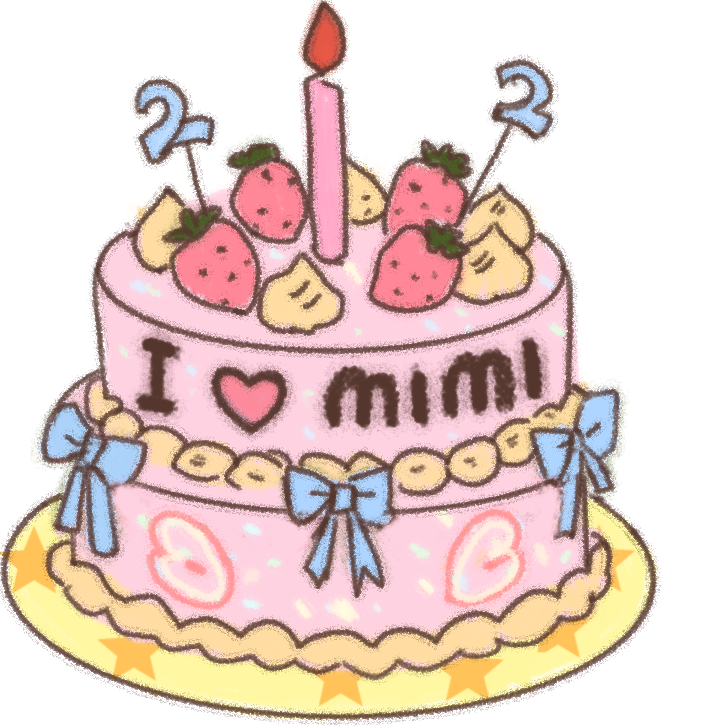
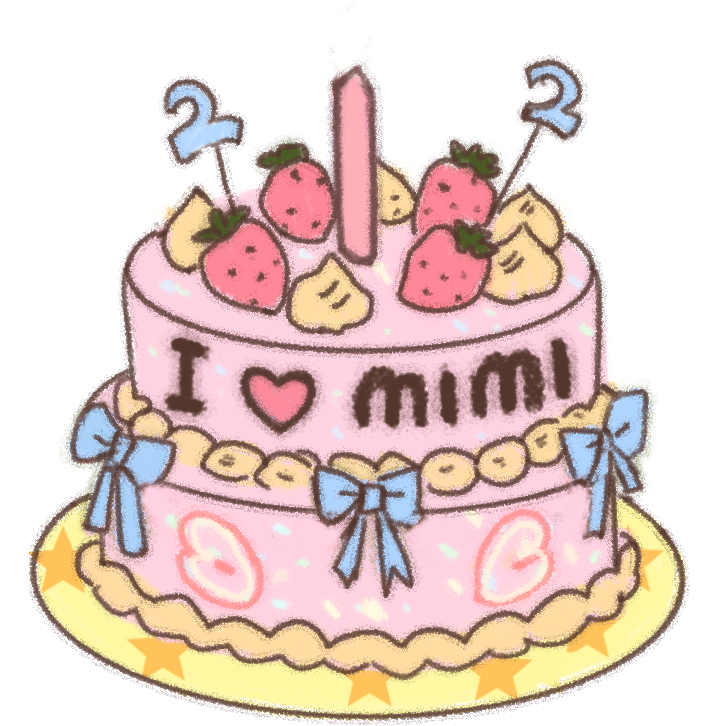
finish cake birthday interaction

diff --git a/room.html b/room.html
@@ -7,6 +7,11 @@
     <title>Mimi's 22 Chapter — Room</title>
     <link rel="stylesheet" href="style.css" />
     <style>
+      :root {
+        --flame-top: 1%;
+        --flame-left: 46%;
+      }
+
       .room-screen {
         isolation: isolate;
       }
@@ -97,6 +102,166 @@
       .notebook-overlay.is-open {
         opacity: 1;
         visibility: visible;
+      }
+
+      .cake-overlay {
+        position: fixed;
+        top: 0;
+        right: 0;
+        bottom: 0;
+        left: 0;
+        z-index: 32;
+        display: grid;
+        place-items: center;
+        padding: 1rem;
+        overflow: hidden;
+        background: rgb(105 47 76 / 46%);
+        opacity: 0;
+        visibility: hidden;
+        transition: opacity 240ms ease, visibility 240ms ease;
+      }
+
+      .cake-overlay.is-open {
+        opacity: 1;
+        visibility: visible;
+      }
+
+      .cake-celebration {
+        position: relative;
+        justify-self: center;
+        align-self: center;
+        width: min(90vw, 34rem);
+        margin: 0;
+        padding: clamp(1.5rem, 4vw, 2.7rem);
+        text-align: center;
+        background: #fff0f6;
+        border: 2px dashed #e79ab9;
+        border-radius: 24px 30px 22px 28px;
+        box-shadow: 8px 10px 0 rgb(120 46 80 / 18%);
+        transform-origin: center;
+        transform: scale(0.94) rotate(0.8deg);
+        transition: transform 280ms cubic-bezier(.2, .85, .25, 1.12);
+      }
+
+      .cake-overlay.is-open .cake-celebration { transform: scale(1) rotate(0.8deg); }
+
+      .cake-title {
+        margin: 0;
+        color: #ab4c77;
+        font: 800 clamp(1.8rem, 5vw, 3rem)/1 "Marker Felt", "Bradley Hand", "Comic Sans MS", cursive;
+      }
+
+      .cake-subtitle {
+        margin: 0.45rem 0 1rem;
+        color: #a67087;
+        font: italic 0.95rem/1.4 Georgia, serif;
+      }
+
+      .cake-close {
+        position: absolute;
+        top: 0.8rem;
+        right: 0.9rem;
+        width: 2.2rem;
+        height: 2.2rem;
+        color: #ba638b;
+        font: 700 1.25rem/1 sans-serif;
+        cursor: pointer;
+        background: #fff9fc;
+        border: 2px solid #e6a6c1;
+        border-radius: 50%;
+      }
+
+      .cake-stage {
+        position: relative;
+        width: min(72vw, 20rem);
+        margin: 0 auto;
+        cursor: pointer;
+      }
+
+      .cake-stage > img { display: block; width: 100%; height: auto; }
+
+      .cake-flame {
+        position: absolute;
+        top: var(--flame-top);
+        left: var(--flame-left);
+        width: 7%;
+        aspect-ratio: 0.62;
+        background: linear-gradient(#fff7a6, #ff9b62 65%, #f3708d);
+        border-radius: 60% 60% 65% 65%;
+        box-shadow: 0 0 15px #ffd77b;
+        transform-origin: 50% 100%;
+        animation: flame-flicker 700ms ease-in-out infinite alternate;
+      }
+
+      .cake-candle-mask {
+        position: absolute;
+        top: calc(var(--flame-top) - 1%);
+        left: calc(var(--flame-left) - 1.5%);
+        width: 10%;
+        height: 10%;
+        background: #fff0f6;
+        border-radius: 50% 50% 35% 35%;
+        opacity: 0;
+      }
+
+      .cake-smoke {
+        position: absolute;
+        top: var(--flame-top);
+        left: var(--flame-left);
+        width: 5%;
+        aspect-ratio: 1;
+        background: rgb(205 196 207 / 72%);
+        border-radius: 50%;
+        opacity: 0;
+      }
+
+      .cake-star {
+        position: absolute;
+        top: 20%;
+        left: 50%;
+        color: #f2b956;
+        font-size: clamp(1rem, 4vw, 1.8rem);
+        opacity: 0;
+        pointer-events: none;
+      }
+
+      .cake-stage.is-blown .cake-flame { opacity: 0; animation: none; }
+      .cake-stage.is-blown .cake-candle-mask { opacity: 1; }
+      .cake-stage.is-blown .cake-smoke { animation: smoke-rise 950ms ease-out forwards; }
+      .cake-stage.is-blown .cake-star { animation: star-burst 800ms ease-out forwards; }
+      .cake-stage.is-blown .cake-star:nth-of-type(4) { animation-delay: 80ms; }
+      .cake-stage.is-blown .cake-star:nth-of-type(5) { animation-delay: 150ms; }
+
+      .cake-star--left { --x: -6rem; --y: -3rem; }
+      .cake-star--right { --x: 5rem; --y: -3.5rem; }
+      .cake-star--top { --x: 0.5rem; --y: -5rem; }
+
+      .cake-result {
+        margin: 0.5rem 0 0;
+        color: #bf5c88;
+        font: 800 clamp(1.05rem, 3.2vw, 1.55rem)/1.25 "Marker Felt", "Bradley Hand", "Comic Sans MS", cursive;
+        opacity: 0;
+        transform: translateY(8px) scale(0.95);
+        transition: opacity 260ms ease, transform 260ms ease;
+      }
+
+      .cake-celebration.is-finished .cake-result { opacity: 1; transform: translateY(0) scale(1); }
+
+      @keyframes flame-flicker {
+        from { transform: rotate(-5deg) scale(0.92, 1.05); }
+        to { transform: rotate(5deg) scale(1.05, 0.93); }
+      }
+
+      @keyframes smoke-rise {
+        0% { opacity: 0; transform: translate(0, 0) scale(0.5); }
+        20% { opacity: 0.75; }
+        100% { opacity: 0; transform: translate(1rem, -4rem) scale(2.2); }
+      }
+
+      @keyframes star-burst {
+        0% { opacity: 0; transform: translate(0, 0) scale(0.4) rotate(0); }
+        30% { opacity: 1; }
+        100% { opacity: 0; transform: translate(var(--x), var(--y)) scale(1.15) rotate(100deg); }
       }
 
       .notebook-page {
@@ -522,7 +687,7 @@
         <img class="dog-open" src="assets/objects/dog-open.png" alt="" draggable="false" />
         <img class="dog-close" src="assets/objects/dog-close.png" alt="" draggable="false" />
       </div>
-      <img class="room-item cake" data-editable data-layout-key="cake" data-tooltip="一起吹灭蜡烛吧 🎂" src="assets/objects/cake.png" alt="Birthday cake" draggable="false" />
+      <img class="room-item cake" data-editable data-layout-key="cake" data-tooltip="一起吹灭蜡烛吧 🎂" src="assets/objects/cake.png" alt="Make a birthday wish" draggable="false" role="button" tabindex="0" />
       <img class="room-item notebook" id="notebook" data-editable data-layout-key="notebook" data-tooltip="谢谢你来到我的22岁💌" src="assets/objects/notebook.png" alt="Open Mimi's guestbook" draggable="false" role="button" tabindex="0" />
       <img class="room-item camera" data-editable data-layout-key="camera" data-tooltip="打开我的回忆铁盒 📷" src="assets/objects/camera.png" alt="Open Mimi's memory box" draggable="false" role="button" tabindex="0" />
     </main>
@@ -566,6 +731,23 @@
         </div>
       </div>
     </section>
+    <section class="cake-overlay" id="cake-overlay" aria-hidden="true" aria-labelledby="cake-title">
+      <div class="cake-celebration" id="cake-celebration" role="dialog" aria-modal="true" aria-labelledby="cake-title">
+        <button class="cake-close" id="cake-close" type="button" aria-label="Close birthday wish">×</button>
+        <h1 class="cake-title" id="cake-title">Make a wish ✨</h1>
+        <p class="cake-subtitle">close your eyes and make a wish</p>
+        <div class="cake-stage" id="cake-stage" role="button" tabindex="0" aria-label="Blow out the candle">
+          <img src="assets/objects/cake.png" alt="Birthday cake" />
+          <span class="cake-flame"></span>
+          <span class="cake-candle-mask"></span>
+          <span class="cake-smoke"></span>
+          <span class="cake-star cake-star--left">✦</span>
+          <span class="cake-star cake-star--right">✦</span>
+          <span class="cake-star cake-star--top">✦</span>
+        </div>
+        <p class="cake-result">Happy 22nd Birthday, Mimi! 🎉</p>
+      </div>
+    </section>
 
     <script>
       const roomStage = document.querySelector(".room-screen");
@@ -590,6 +772,11 @@
       const messageNext = document.querySelector("#message-next");
       const messagePageLabel = document.querySelector("#message-page");
       const messageSubmit = document.querySelector("#message-submit");
+      const cakeItem = document.querySelector(".cake");
+      const cakeOverlay = document.querySelector("#cake-overlay");
+      const cakeCelebration = document.querySelector("#cake-celebration");
+      const cakeClose = document.querySelector("#cake-close");
+      const cakeStage = document.querySelector("#cake-stage");
       const memoryWall = document.querySelector(".memory-wall");
       const memoryPhotos = [...document.querySelectorAll(".memory-photo")];
       const memoryStickers = document.querySelector("#memory-stickers");
@@ -803,6 +990,30 @@
         notebookItem.focus();
       }
 
+      function openCakeCelebration() {
+        if (editing) return;
+        hideHoverTooltip();
+        cakeStage.classList.remove("is-blown");
+        cakeCelebration.classList.remove("is-finished");
+        cakeOverlay.hidden = false;
+        cakeOverlay.setAttribute("aria-hidden", "false");
+        requestAnimationFrame(() => cakeOverlay.classList.add("is-open"));
+        cakeStage.focus();
+      }
+
+      function closeCakeCelebration() {
+        cakeOverlay.classList.remove("is-open");
+        cakeOverlay.setAttribute("aria-hidden", "true");
+        window.setTimeout(() => { cakeOverlay.hidden = true; }, 240);
+        cakeItem.focus();
+      }
+
+      function blowCakeCandle() {
+        if (cakeStage.classList.contains("is-blown")) return;
+        cakeStage.classList.add("is-blown");
+        window.setTimeout(() => cakeCelebration.classList.add("is-finished"), 700);
+      }
+
       function saveMessages() {
         localStorage.setItem(messageStorageKey, JSON.stringify(messages));
       }
@@ -1013,6 +1224,7 @@
       document.addEventListener("keydown", (event) => {
         if (event.key === "Escape" && memoryOverlay.classList.contains("is-open")) closeMemoryBox();
         if (event.key === "Escape" && notebookOverlay.classList.contains("is-open")) closeNotebook();
+        if (event.key === "Escape" && cakeOverlay.classList.contains("is-open")) closeCakeCelebration();
       });
 
       notebookItem.addEventListener("click", openNotebook);
@@ -1025,6 +1237,24 @@
       notebookClose.addEventListener("click", closeNotebook);
       notebookOverlay.addEventListener("click", (event) => {
         if (event.target === notebookOverlay) closeNotebook();
+      });
+      cakeItem.addEventListener("click", openCakeCelebration);
+      cakeItem.addEventListener("keydown", (event) => {
+        if (event.key === "Enter" || event.key === " ") {
+          event.preventDefault();
+          openCakeCelebration();
+        }
+      });
+      cakeClose.addEventListener("click", closeCakeCelebration);
+      cakeOverlay.addEventListener("click", (event) => {
+        if (event.target === cakeOverlay) closeCakeCelebration();
+      });
+      cakeStage.addEventListener("click", blowCakeCandle);
+      cakeStage.addEventListener("keydown", (event) => {
+        if (event.key === "Enter" || event.key === " ") {
+          event.preventDefault();
+          blowCakeCandle();
+        }
       });
       messageForm.addEventListener("submit", (event) => {
         event.preventDefault();
